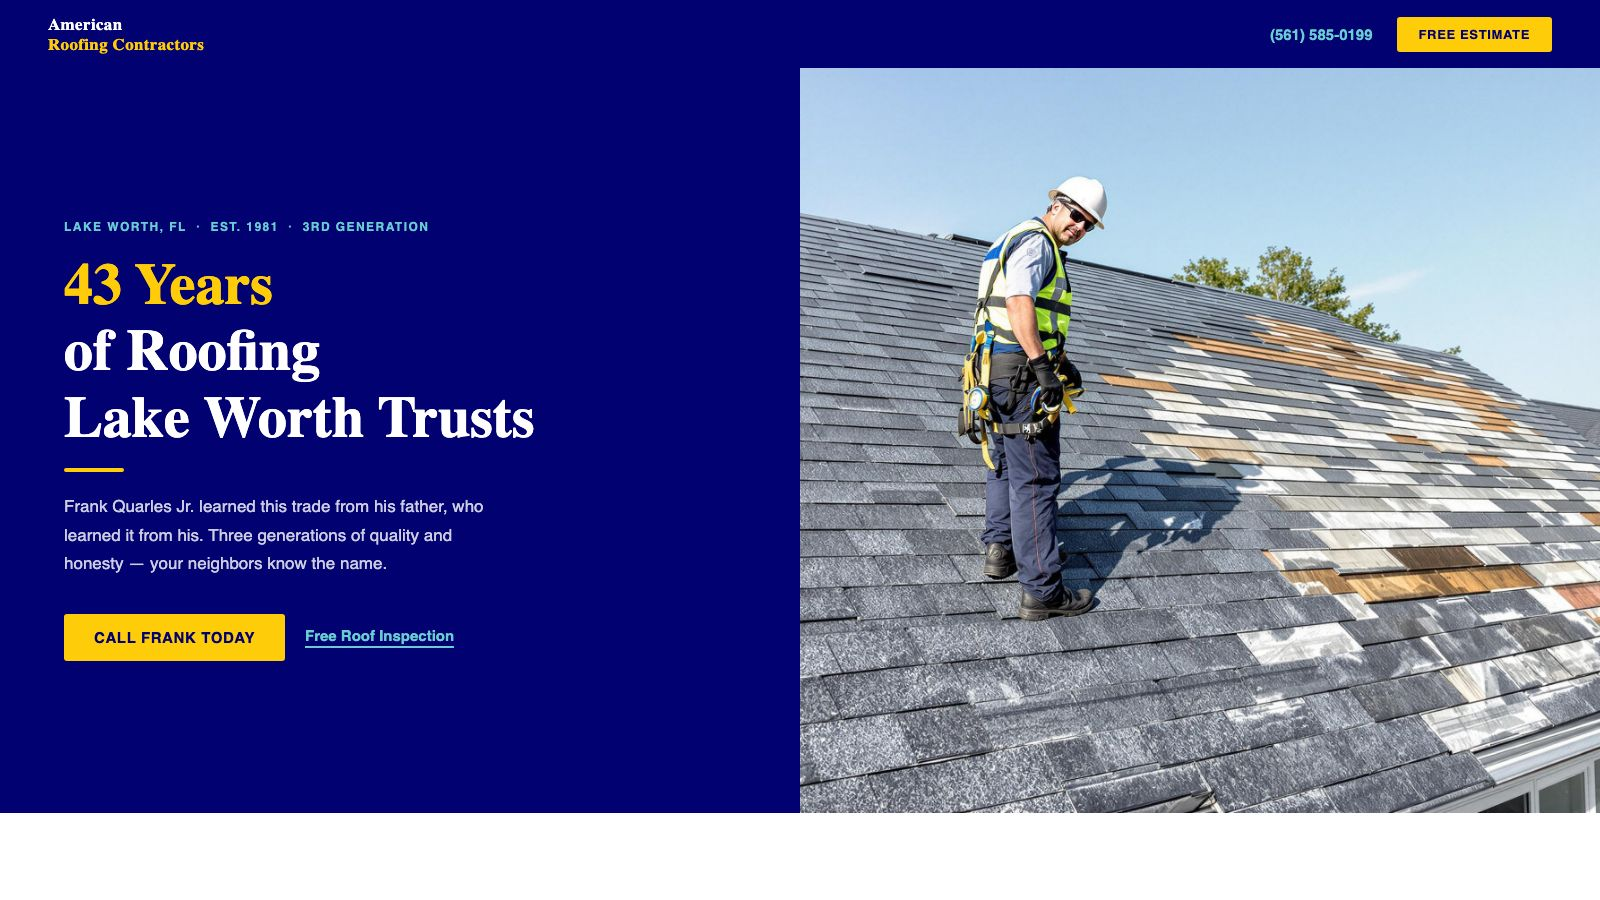
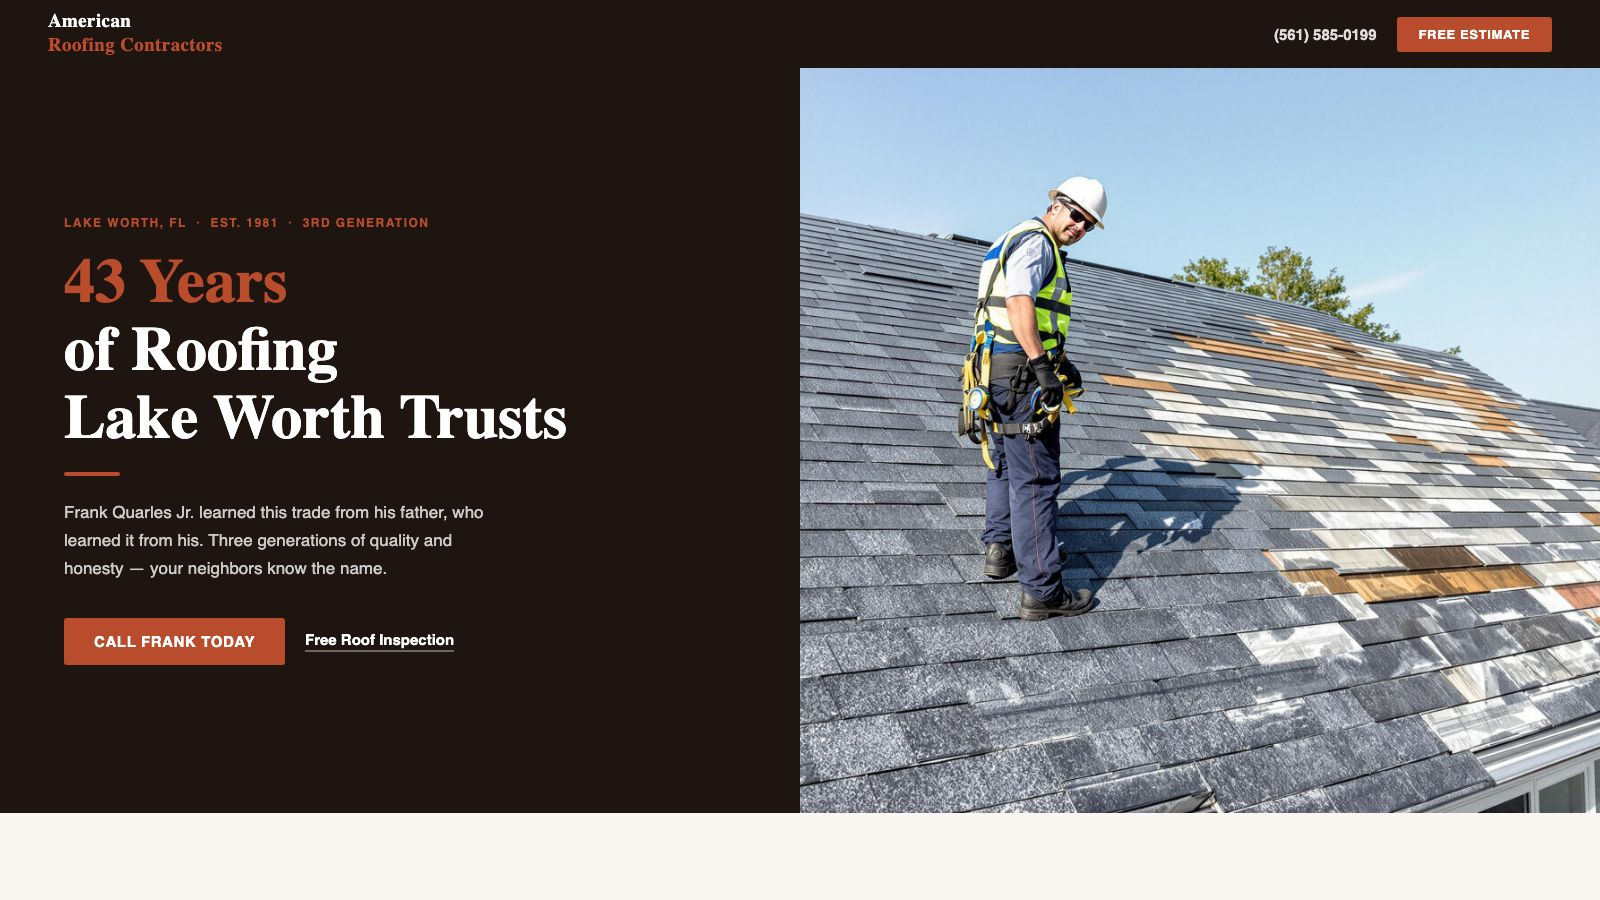
Redesign american-roofing-contractors-lw — warm earth palette, no blue

diff --git a/p/american-roofing-contractors-lw/index.html b/p/american-roofing-contractors-lw/index.html
@@ -6,107 +6,51 @@
   <title>American Roofing Contractors | Lake Worth, FL | Since 1981</title>
   <link rel="preconnect" href="https://fonts.googleapis.com">
   <link rel="preconnect" href="https://fonts.gstatic.com" crossorigin>
-  <link rel="preload" as="style" href="https://fonts.googleapis.com/css2?family=Merriweather:wght@400;700;900&family=Open+Sans:wght@400;600;700&display=swap">
-  <link rel="stylesheet" href="https://fonts.googleapis.com/css2?family=Merriweather:wght@400;700;900&family=Open+Sans:wght@400;600;700&display=swap">
+  <link rel="preload" as="style" href="https://fonts.googleapis.com/css2?family=Playfair+Display:wght@400;700;800;900&family=Inter:wght@400;500;600;700&display=swap">
+  <link rel="stylesheet" href="https://fonts.googleapis.com/css2?family=Playfair+Display:wght@400;700;800;900&family=Inter:wght@400;500;600;700&display=swap">
   <style>
     *, *::before, *::after { box-sizing: border-box; margin: 0; padding: 0; }
     :root {
-      --navy: #010171;
-      --teal: #68ccd1;
-      --gold: #ffcc09;
+      --char: #1e1410;
+      --brick: #b84c2c;
+      --cream: #faf6f1;
+      --tan: #e8e0d5;
+      --dark: #1a1210;
       --white: #ffffff;
-      --dark: #000001;
     }
-    body { font-family: 'Open Sans', sans-serif; color: var(--dark); background: var(--white); }
+    body { font-family: 'Inter', sans-serif; color: var(--dark); background: var(--cream); }
 
     nav {
       position: sticky; top: 0; z-index: 100;
-      background: var(--navy);
+      background: var(--char);
       display: flex; align-items: center; justify-content: space-between;
       padding: 0 48px; height: 68px;
     }
-    .nav-logo {
-      font-family: 'Merriweather', serif;
-      font-size: 17px; font-weight: 900;
-      color: var(--white); letter-spacing: 0.02em;
-      line-height: 1.2;
-    }
-    .nav-logo span { color: var(--gold); }
-    .nav-right { display: flex; align-items: center; gap: 24px; }
-    .nav-phone { color: var(--teal); font-size: 15px; font-weight: 700; text-decoration: none; }
-    .nav-cta {
-      background: var(--gold); color: var(--navy);
-      font-weight: 700; font-size: 13px; letter-spacing: 0.05em;
-      padding: 10px 22px; border-radius: 3px;
-      text-decoration: none; text-transform: uppercase;
-    }
+    .nav-logo { font-family: 'Playfair Display', serif; font-size: 19px; font-weight: 700; color: var(--white); letter-spacing: 0.02em; line-height: 1.25; }
+    .nav-logo span { color: var(--brick); }
+    .nav-right { display: flex; align-items: center; gap: 20px; }
+    .nav-phone { color: rgba(255,255,255,0.85); font-size: 15px; font-weight: 600; text-decoration: none; }
+    .nav-cta { background: var(--brick); color: var(--white); font-weight: 700; font-size: 13px; padding: 10px 22px; border-radius: 3px; text-decoration: none; text-transform: uppercase; letter-spacing: 0.05em; }
 
-    .hero {
-      display: grid; grid-template-columns: 1fr 1fr;
-      min-height: calc(100vh - 68px); max-height: 832px;
-      background: #f0f4f8;
-    }
-    .hero-text {
-      display: flex; flex-direction: column; justify-content: center;
-      padding: 64px 52px 64px 64px;
-      background: var(--navy);
-    }
-    .hero-eyebrow {
-      font-size: 12px; font-weight: 700;
-      letter-spacing: 0.12em; text-transform: uppercase;
-      color: var(--teal); margin-bottom: 18px;
-    }
-    .hero-h1 {
-      font-family: 'Merriweather', serif;
-      font-size: clamp(36px, 3.8vw, 58px);
-      font-weight: 900; line-height: 1.15;
-      color: var(--white);
-      margin-bottom: 16px;
-    }
-    .hero-h1 .accent { color: var(--gold); }
-    .hero-divider {
-      width: 60px; height: 4px;
-      background: var(--gold); border-radius: 2px;
-      margin-bottom: 20px;
-    }
-    .hero-sub {
-      font-size: 17px; line-height: 1.7;
-      color: rgba(255,255,255,0.8);
-      max-width: 420px; margin-bottom: 36px;
-    }
+    .hero { display: grid; grid-template-columns: 1fr 1fr; min-height: calc(100vh - 68px); max-height: 832px; }
+    .hero-text { display: flex; flex-direction: column; justify-content: center; padding: 64px 52px 64px 64px; background: var(--char); }
+    .hero-eyebrow { font-size: 12px; font-weight: 700; letter-spacing: 0.12em; text-transform: uppercase; color: var(--brick); margin-bottom: 18px; }
+    .hero-h1 { font-family: 'Playfair Display', serif; font-size: clamp(40px, 4vw, 62px); font-weight: 900; line-height: 1.1; color: var(--white); margin-bottom: 20px; }
+    .hero-h1 em { color: var(--brick); font-style: normal; }
+    .hero-divider { width: 56px; height: 4px; background: var(--brick); border-radius: 2px; margin-bottom: 22px; }
+    .hero-sub { font-size: 17px; line-height: 1.65; color: rgba(255,255,255,0.78); max-width: 420px; margin-bottom: 36px; }
     .hero-actions { display: flex; align-items: center; gap: 20px; flex-wrap: wrap; }
-    .btn-primary {
-      background: var(--gold); color: var(--navy);
-      font-weight: 700; font-size: 15px;
-      padding: 15px 30px; border-radius: 3px;
-      text-decoration: none; text-transform: uppercase; letter-spacing: 0.04em;
-    }
-    .btn-ghost {
-      color: var(--teal); font-weight: 600; font-size: 15px;
-      text-decoration: none; border-bottom: 2px solid var(--teal); padding-bottom: 2px;
-    }
+    .btn-primary { background: var(--brick); color: var(--white); font-weight: 700; font-size: 15px; padding: 15px 30px; border-radius: 3px; text-decoration: none; text-transform: uppercase; letter-spacing: 0.04em; }
+    .btn-ghost { color: var(--white); font-weight: 600; font-size: 15px; text-decoration: none; border-bottom: 2px solid rgba(255,255,255,0.35); padding-bottom: 2px; }
 
     .hero-img { position: relative; overflow: hidden; }
     .hero-img img { width: 100%; height: 100%; object-fit: cover; display: block; }
 
-    .trust-bar {
-      background: var(--teal);
-      display: grid; grid-template-columns: repeat(4, 1fr);
-    }
-    .trust-item {
-      padding: 26px 28px; text-align: center;
-      border-right: 1px solid rgba(1,1,113,0.2);
-    }
+    .trust-bar { background: var(--brick); display: grid; grid-template-columns: repeat(4, 1fr); }
+    .trust-item { padding: 26px 28px; text-align: center; border-right: 1px solid rgba(255,255,255,0.2); }
     .trust-item:last-child { border-right: none; }
-    .trust-number {
-      font-family: 'Merriweather', serif;
-      font-size: 34px; font-weight: 900;
-      color: var(--navy); line-height: 1; margin-bottom: 4px;
-    }
-    .trust-label {
-      font-size: 11px; font-weight: 700; letter-spacing: 0.1em;
-      text-transform: uppercase; color: var(--navy);
-    }
+    .trust-number { font-family: 'Playfair Display', serif; font-size: 36px; font-weight: 900; color: var(--white); line-height: 1; margin-bottom: 4px; }
+    .trust-label { font-size: 11px; font-weight: 700; letter-spacing: 0.08em; text-transform: uppercase; color: rgba(255,255,255,0.82); }
 
     @media (max-width: 768px) {
       nav { padding: 0 20px; }
@@ -130,11 +74,7 @@
 <section class="hero">
   <div class="hero-text">
     <div class="hero-eyebrow">Lake Worth, FL &nbsp;·&nbsp; Est. 1981 &nbsp;·&nbsp; 3rd Generation</div>
-    <h1 class="hero-h1">
-      <span class="accent">43 Years</span><br>
-      of Roofing<br>
-      Lake Worth Trusts
-    </h1>
+    <h1 class="hero-h1"><em>43 Years</em><br>of Roofing<br>Lake Worth Trusts</h1>
     <div class="hero-divider"></div>
     <p class="hero-sub">
       Frank Quarles Jr. learned this trade from his father, who learned it from his. Three generations of quality and honesty — your neighbors know the name.
@@ -145,27 +85,15 @@
     </div>
   </div>
   <div class="hero-img">
-    <img src="../../assets/samples/Roofers/67c8a027ddc2711c0e6c2bd0_Why Trustworthy Roofers Are Hard To Find Graphic.jpg" alt="Experienced roofer inspecting and replacing roof at American Roofing Contractors Lake Worth FL" loading="eager">
+    <img src="../../assets/samples/Roofers/67c8a027ddc2711c0e6c2bd0_Why Trustworthy Roofers Are Hard To Find Graphic.jpg" alt="Experienced roofer from American Roofing Contractors inspecting a roof in Lake Worth FL" loading="eager">
   </div>
 </section>
 
 <div class="trust-bar">
-  <div class="trust-item">
-    <div class="trust-number">43</div>
-    <div class="trust-label">Years Serving South FL</div>
-  </div>
-  <div class="trust-item">
-    <div class="trust-number">3rd</div>
-    <div class="trust-label">Generation Roofer</div>
-  </div>
-  <div class="trust-item">
-    <div class="trust-number">A+</div>
-    <div class="trust-label">BBB Rated</div>
-  </div>
-  <div class="trust-item">
-    <div class="trust-number">100%</div>
-    <div class="trust-label">Licensed &amp; Insured</div>
-  </div>
+  <div class="trust-item"><div class="trust-number">43</div><div class="trust-label">Years Serving South FL</div></div>
+  <div class="trust-item"><div class="trust-number">3rd</div><div class="trust-label">Generation Roofer</div></div>
+  <div class="trust-item"><div class="trust-number">A+</div><div class="trust-label">BBB Rated</div></div>
+  <div class="trust-item"><div class="trust-number">100%</div><div class="trust-label">Licensed &amp; Insured</div></div>
 </div>
 
 </body>
